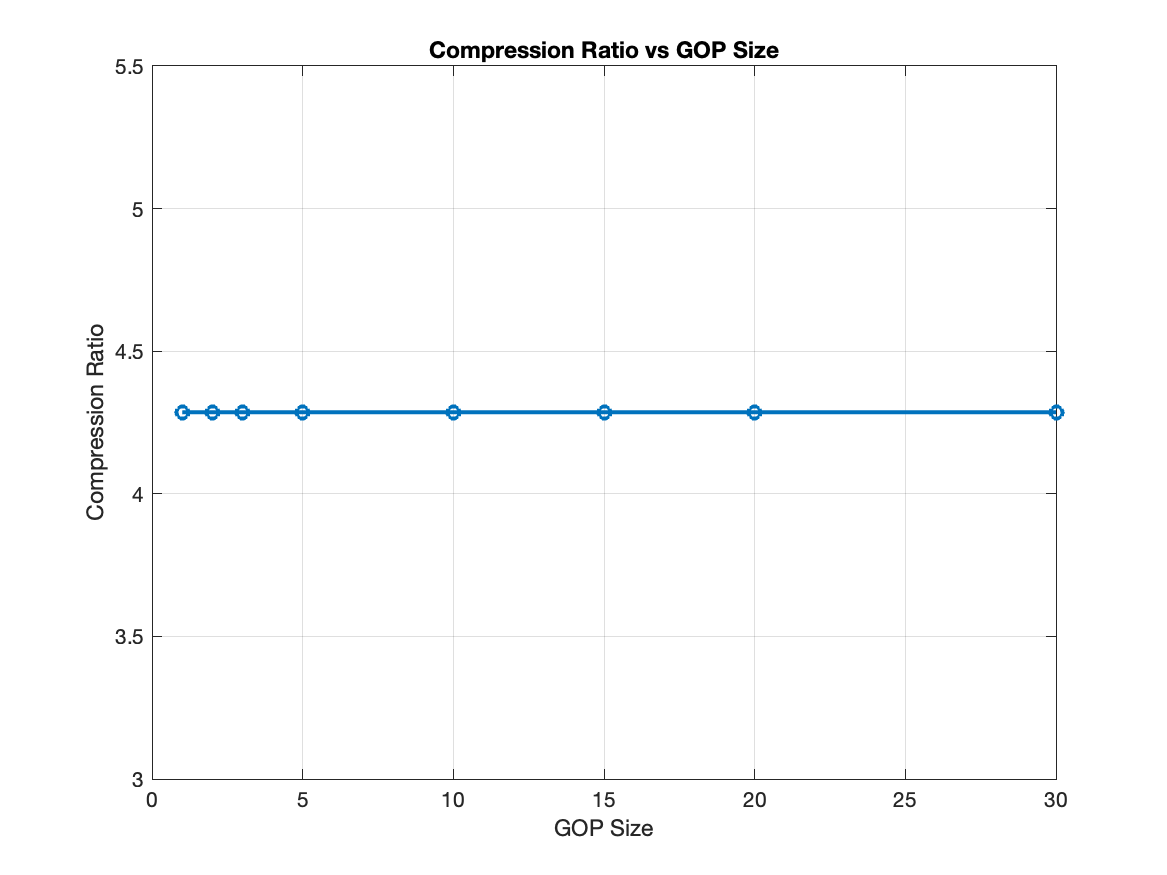
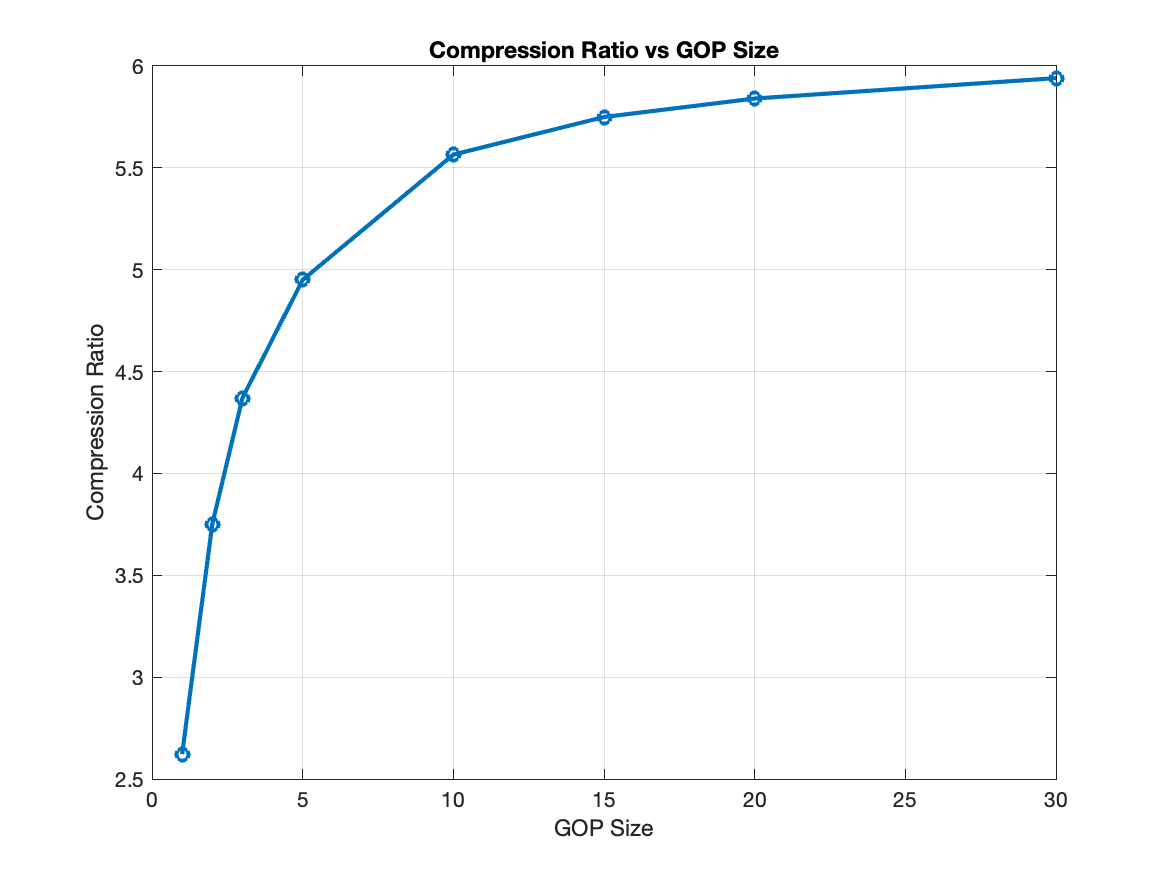
comparisions doneee

diff --git a/Project/config.m b/Project/config.m
@@ -1,125 +1,16 @@
 function params = config()
-    % ========================================================================
-    % COMPREHENSIVE VIDEO COMPRESSION CONFIGURATION
-    % 
-    % This configuration file centralizes all parameters that control the 
-    % compression behavior, quality, and performance. Modify these parameters
-    % to experiment with different compression settings.
-    % ========================================================================
-    
-    % ======== Compression Parameters ========
-    
-    % GOP (Group of Pictures) size: Controls I-frame frequency
-    % RANGE: 1 to 30+ (integer)
-    % EFFECT: Lower = better quality, larger file size
-    %         Higher = smaller file size, potentially lower quality
-    % NOTE: Value of 1 means all frames are I-frames (highest quality)
-    params.GOP_SIZE = 30;
-    
-    % Residual threshold: Noise filter for P-frame differences
-    % RANGE: 0 to 10 (integer)
-    % EFFECT: 0 = keep all details (largest P-frames)
-    %         3-5 = balanced (removes noise, keeps structure)
-    %         10+ = aggressive filtering (smallest P-frames, potential artifacts)
-    % NOTE: Higher values improve compression but may cause detail loss
-    params.RESIDUAL_THRESHOLD = 0;  % Keep all details in residuals
-    
-    % Test mode: Process limited frames for faster testing
-    % RANGE: true (1) or false (0)
-    % EFFECT: true = process only TEST_FRAMES number of frames
-    %         false = process all frames in directory
-    params.TEST_MODE = false;
-    
-    % Number of frames to process in test mode
-    % RANGE: 1 to total frame count (integer)
-    % EFFECT: Only used when TEST_MODE = true
+    params.GOP_SIZE = 15;
+    params.RESIDUAL_THRESHOLD = 0;
+    params.TEST_MODE = 0;
     params.TEST_FRAMES = 5;
-    
-    % Force specific frames to be I-frames
-    % RANGE: Array of frame indices [1,3,5,...]
-    % EFFECT: Ensures specific frames are encoded as full I-frames
-    %         regardless of GOP structure
-    % NOTE: Empty array [] means no forced I-frames
-    params.FORCE_I_FRAMES = [];  % Disabled for GOP analysis
-    
-    % ======== Quantization Parameters ========
-    
-    % Quality factor for DCT coefficient quantization
-    % RANGE: 0.5 to 10.0 (float)
-    % EFFECT: Lower = better quality, larger files (0.5-2.0 is high quality)
-    %         Higher = lower quality, smaller files (5.0+ is aggressive compression)
-    % NOTE: This is the main quality control parameter
-    params.QUALITY_FACTOR = 0.8;  % Much lower for high quality
-    
-    % Frequency weighting factor for quantization
-    % RANGE: 0.1 to 2.0 (float)
-    % EFFECT: Controls how aggressively high frequencies are compressed
-    %         Lower = preserve more high-frequency detail
-    %         Higher = more aggressive compression of high frequencies
-    params.FREQ_WEIGHT_FACTOR = 0.2;  % Reduced significantly to preserve details
-    
-    % Special weighting for low-frequency (DC) components
-    % RANGE: 0.1 to 1.0 (float)
-    % EFFECT: Lower = better preserve important low frequencies
-    %         Higher = more compression even in visually critical areas
-    params.DC_SCALE_FACTOR = 0.8;  % Increased to maintain DC component fidelity
-    
-    % Size of low-frequency block to receive special treatment
-    % RANGE: 1 to 8 (integer)
-    % EFFECT: Controls how many low-frequency coefficients get special treatment
-    %         Higher values preserve more of the basic structure
-    params.DC_BLOCK_SIZE = 3;  % Back to original value
-    
-    % ======== P-Frame Parameters ========
-    
-    % P-frame quantization boost factor
-    % RANGE: 1.0 to 2.0 (float)
-    % EFFECT: Controls additional quantization for P-frames
-    %         1.0 = same quantization as I-frames
-    %         >1.0 = more aggressive quantization for P-frames
-    % NOTE: Higher values create smaller P-frames but lower quality
-    params.P_FRAME_QUANT_BOOST = 1.0;  % No extra quantization for P-frames
-    
-    % P-frame zero run enhancement
-    % RANGE: true (1) or false (0)
-    % EFFECT: When true, tries to create longer runs of zeros in P-frames
-    %         to improve compression efficiency 
-    params.ENHANCE_P_FRAME_ZEROS = false;  % Disable zero run enhancement
-    
-    % Maximum P-frames before refresh
-    % RANGE: 1 to GOP_SIZE-1 (integer)
-    % EFFECT: Forces an I-frame after this many P-frames, even within a GOP
-    %         to prevent quality degradation
-    % NOTE: Set to GOP_SIZE-1 to disable (normal GOP behavior)
-    params.MAX_P_FRAMES_BEFORE_REFRESH = 5;  % More frequent refresh
-    
-    % ======== Enhancement Parameters ========
-    
-    % Apply median filtering to P-frames
-    % RANGE: true (1) or false (0)
-    % EFFECT: Smooths out noise in P-frames
-    %         Can help with compression but may reduce details
-    params.USE_MEDIAN_FILTER = false;  % Disable filtering to preserve details
-    
-    % Median filter window size
-    % RANGE: [odd_number, odd_number], typically [3,3] or [5,5]
-    % EFFECT: Larger values = more smoothing
+    params.QUALITY_FACTOR = 0.8;
+    params.FREQ_WEIGHT_FACTOR = 0.2;
+    params.DC_SCALE_FACTOR = 0.8;
+    params.DC_BLOCK_SIZE = 3;
+    params.USE_MEDIAN_FILTER = 0;
     params.MEDIAN_FILTER_SIZE = [3, 3];
-    
-    % Apply sharpening to P-frames
-    % RANGE: true (1) or false (0)
-    % EFFECT: Enhances edges after decompression
-    %         Can improve perceived quality but may amplify artifacts
-    params.USE_SHARPENING = false;  % Disable sharpening
-    
-    % Sharpening strength
-    % RANGE: 0.1 to 1.0 (float)
-    % EFFECT: Controls how strong the sharpening effect is
-    %         Higher values = more pronounced edges
+    params.USE_SHARPENING = 0;
     params.SHARPENING_STRENGTH = 0.2;
-    
-    % Minimum frame index to apply enhancements
-    % RANGE: 1 to total frames (integer)
-    % EFFECT: Only apply enhancements after this frame
     params.ENHANCE_AFTER_FRAME = 2;
+    params.FORCE_I_FRAMES = [];
 end

diff --git a/Project/analyze_compression.m b/Project/analyze_compression.m
@@ -33,19 +33,25 @@ function analyze_compression()
     psnr_gop_sizes = [1, 15, 30];
     psnr_values = cell(length(psnr_gop_sizes), 1);
     
+    % Save original config
+    orig_config = config();
+    
     % Main analysis loop
     for i = 1:length(gop_sizes)
         gop_size = gop_sizes(i);
         fprintf('\nAnalyzing GOP size %d...\n', gop_size);
         
-        % Update configuration
-        cfg = config();
+        % Create new config with current GOP size
+        cfg = orig_config;
         cfg.GOP_SIZE = gop_size;
         cfg.TEST_MODE = false;  % Use all frames
         cfg.FORCE_I_FRAMES = [];  % Don't force any I-frames
         
-        % Save the updated configuration temporarily
+        % Save the updated configuration
         save_config(cfg);
+        
+        % Clear any cached config
+        clear('config');
         
         % Run compression
         compress();
@@ -70,6 +76,9 @@ function analyze_compression()
             % Save PSNR results to file
             save(sprintf('psnr_gop_%d.mat', gop_size), 'psnr_values');
         end
+        
+        % Clear the cached config again before next iteration
+        clear('config');
     end
     
     % Save compression ratio results
@@ -104,8 +113,7 @@ function analyze_compression()
     saveas(gcf, 'psnr_plot.png');
     
     % Restore original configuration
-    cfg = config();
-    save_config(cfg);
+    save_config(orig_config);
     
     % Print results
     fprintf('\nCompression Analysis Results:\n');
@@ -118,9 +126,9 @@ end
 
 function save_config(cfg)
     % Create a temporary function to save the updated configuration
-    fid = fopen('temp_config.m', 'w');
+    fid = fopen('config.m', 'w');
     
-    fprintf(fid, 'function params = temp_config()\n');
+    fprintf(fid, 'function params = config()\n');  % Changed function name to match file
     fprintf(fid, '    params.GOP_SIZE = %d;\n', cfg.GOP_SIZE);
     fprintf(fid, '    params.RESIDUAL_THRESHOLD = %d;\n', cfg.RESIDUAL_THRESHOLD);
     fprintf(fid, '    params.TEST_MODE = %d;\n', cfg.TEST_MODE);
@@ -147,9 +155,6 @@ function save_config(cfg)
     
     fprintf(fid, 'end\n');
     fclose(fid);
-    
-    % Rename to override the config.m file temporarily
-    movefile('temp_config.m', 'config.m', 'f');
 end
 
 function psnr_values = calculate_psnr(original_dir, decompressed_dir, num_frames)
